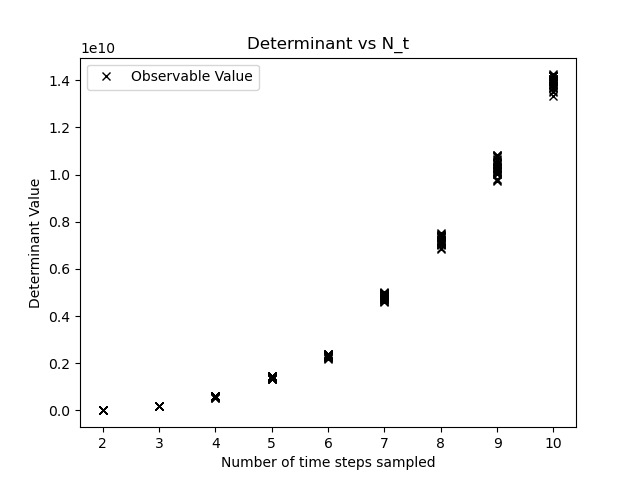
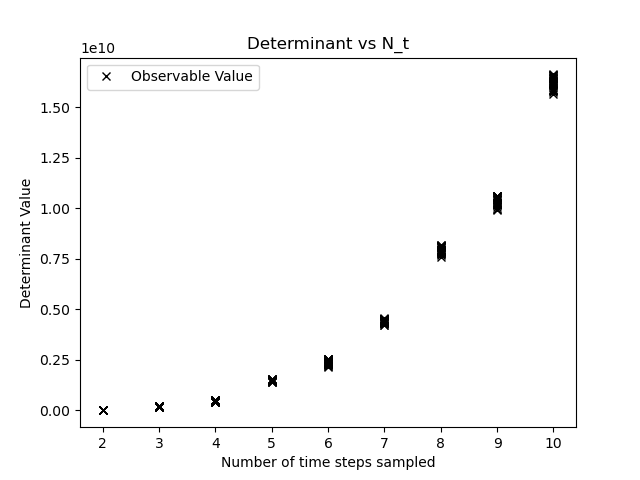
adjust parameters to what is shown in graphs.

diff --git a/growth_model.py b/growth_model.py
@@ -159,9 +159,9 @@ if __name__ == "__main__":
     ]
 
     # How many points of time should be sampled at maximum? (Starting at 1)
-    N_t_min = 5
-    N_t_max = 51
-    N_t_step = 5
+    N_t_min = 2
+    N_t_max = 11
+    N_t_step = 1
     # How many times should the random sampling take a sample of (eg. 3) time points
     N_t_mult = 20
     # Final result should look like this:
